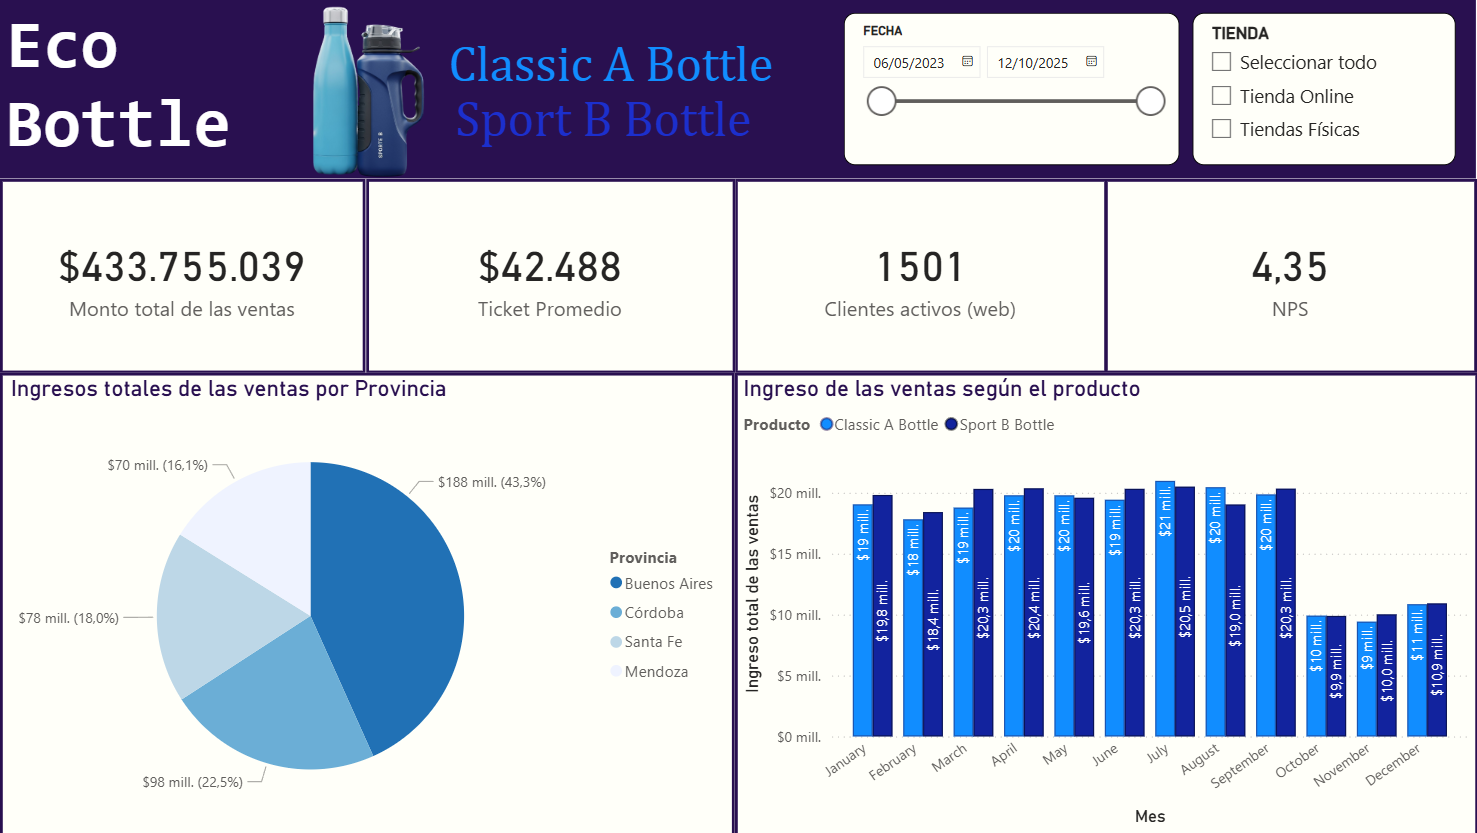
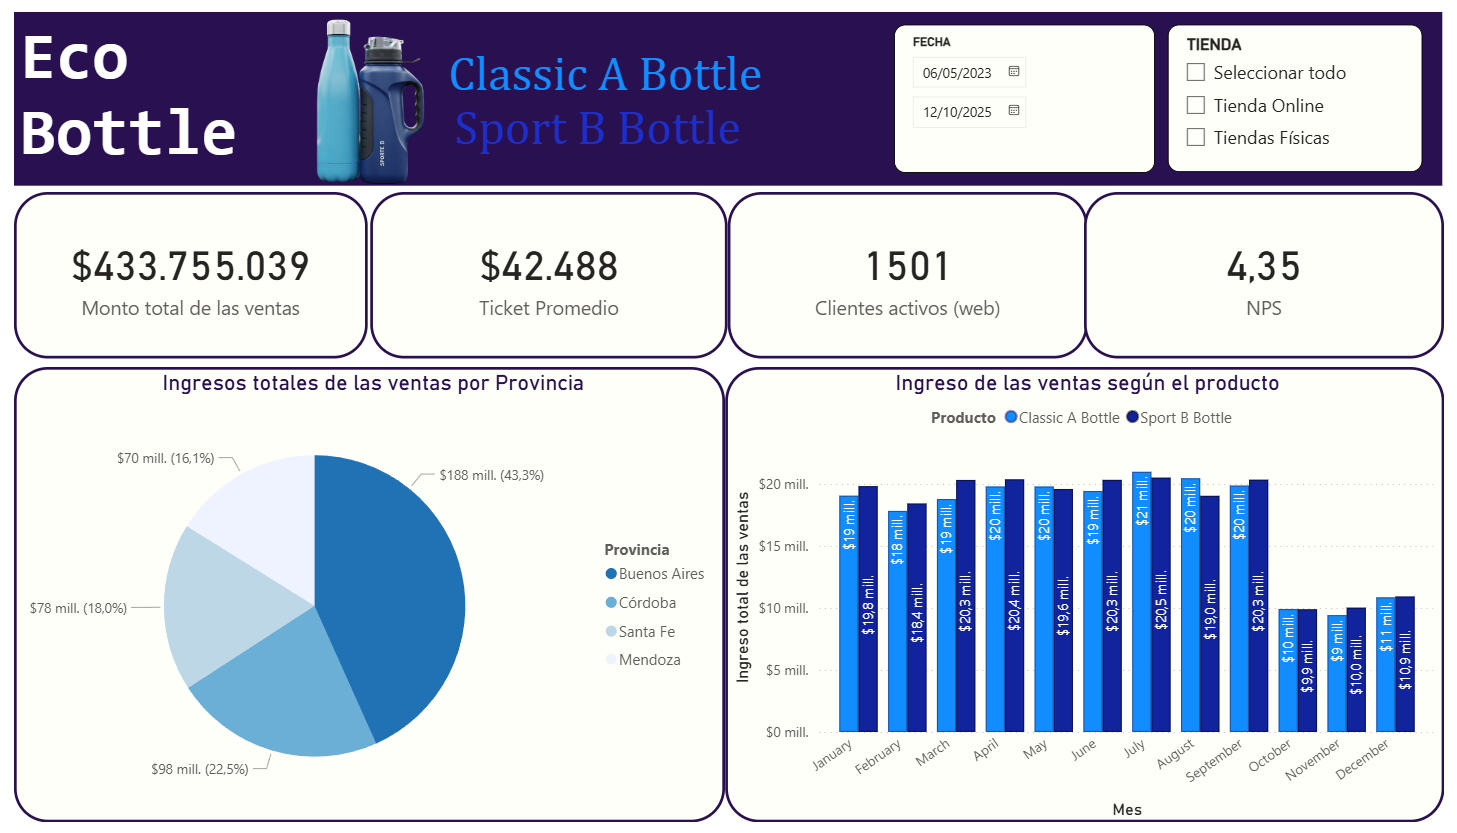
chore: Versión final de las visualizaciones y dashboards

diff --git a/README.md b/README.md
@@ -2,6 +2,8 @@
 
 Este repositorio contiene el proyecto final para la materia "Introducción al Marketing Online y los Negocios Digitales".
 
+**Autor:** Fasolato, Matías
+
 ## 1. Dashboards (Resultados)
 
 Los datos procesados se utilizaron para construir tres dashboards en Power BI, enfocados en el análisis comercial y la experiencia del cliente.
